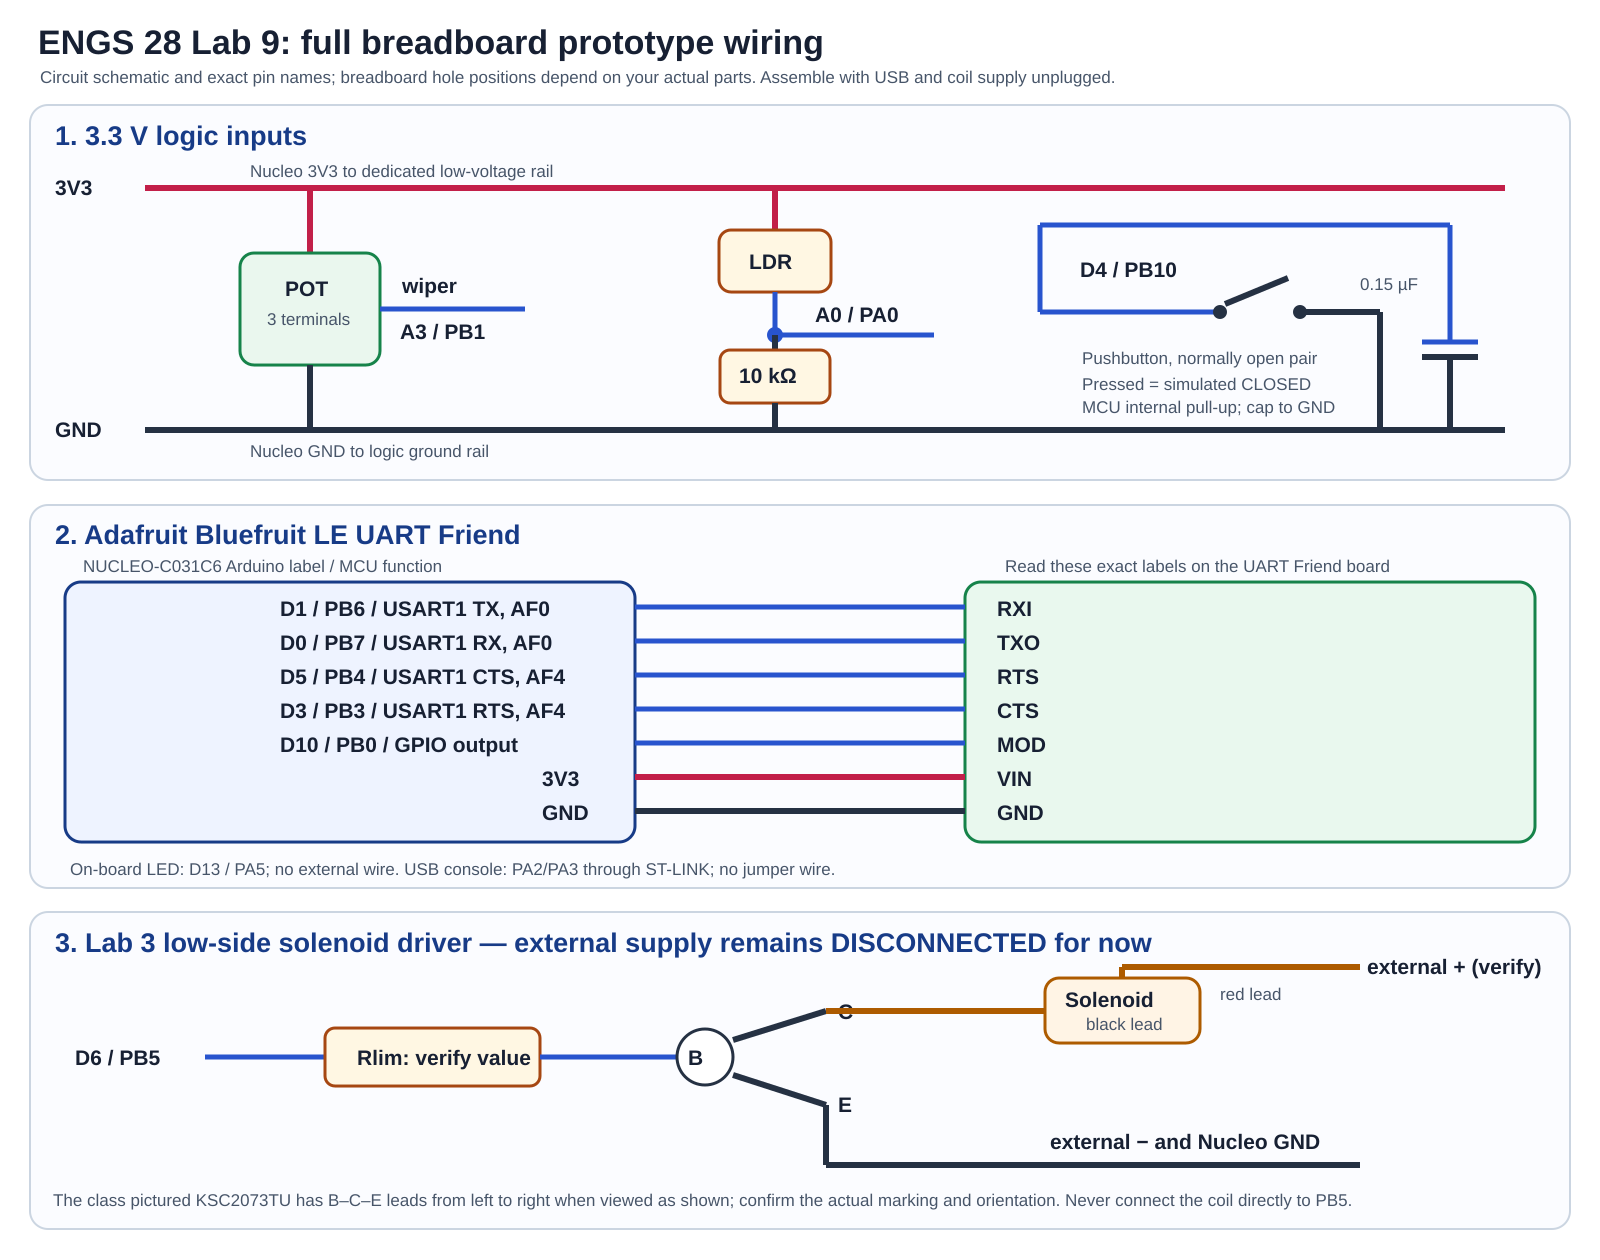
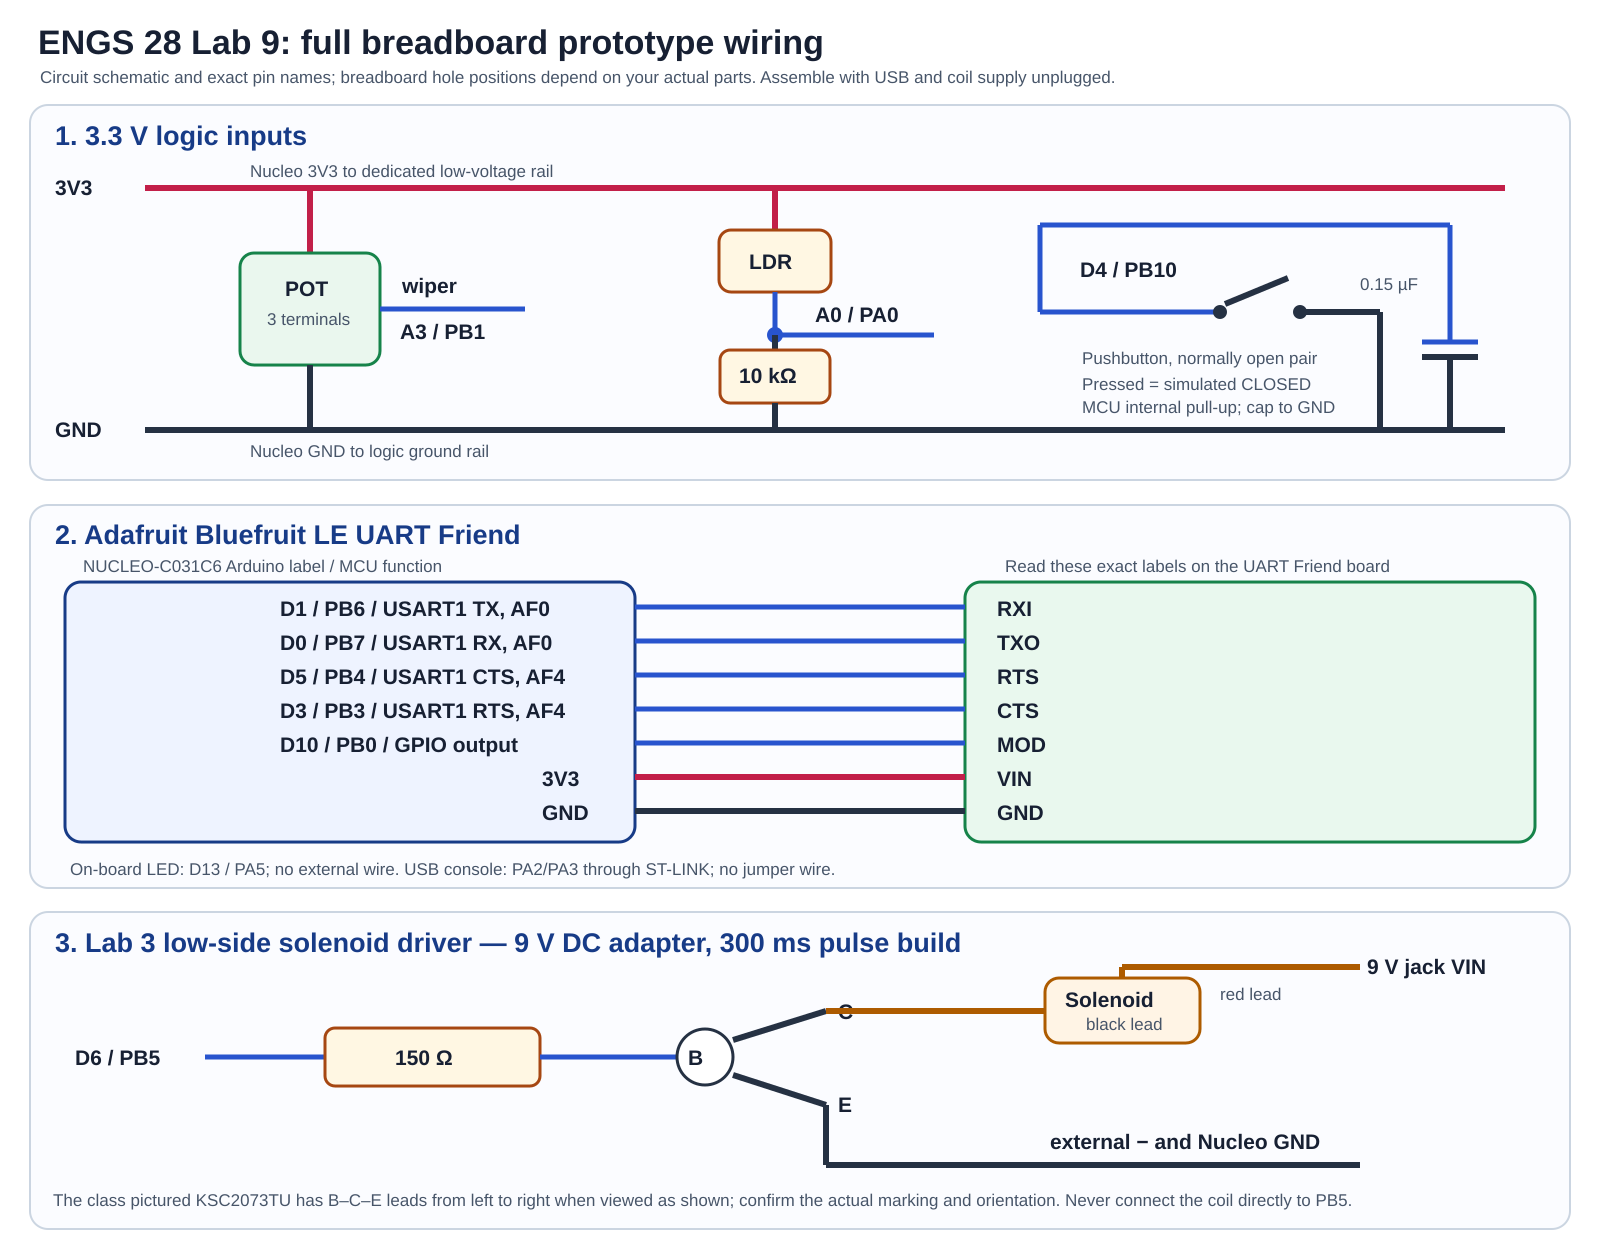
Prepare Lab 9 prototype for GitHub collaboration

Changed region(s): [[0.3125, 0.7429, 0.7188, 0.7738], [0.8438, 0.7429, 0.9688, 0.7738], [0.2188, 0.8357, 0.3438, 0.8667]]

diff --git a/README.md b/README.md
@@ -1,18 +1,27 @@
 # ENGS 28 Lab 9 breadboard prototype
 
-Target: NUCLEO-C031C6 with Adafruit Bluefruit LE UART Friend. This is a separate project copy; Lab 8 is untouched. The default build keeps PB5 solenoid drive **off** and shows an allowed unlock request on the on-board LED for 1 second. The breadboard prototype was tested on the connected Nucleo on 2026-11-12 with a separate 300 ms coil build.
+Target: NUCLEO-C031C6 with an Adafruit Bluefruit LE UART Friend. The default build keeps PB5 solenoid drive **off** and shows an accepted unlock request on the on-board LED for 1 second. `make coil` builds the 300 ms solenoid-pulse version used in the breadboard tests on 2026-11-12. This is a breadboard prototype; the pushbutton simulates a closed door.
 
-## Build
+## Build and test
+
+Install GNU Make, an Arm GNU bare-metal toolchain (`arm-none-eabi-gcc`, `arm-none-eabi-size`, and `arm-none-eabi-objcopy`), and a host C compiler for `make test`. The firmware uses the course's 12 MHz STM32C031 clock setup and does not require STM32 HAL.
+
+The Makefile finds the STM32CubeIDE toolchain at the path used for the original bench build. On another computer, put `arm-none-eabi-*` on `PATH` and run `make TOOLCHAIN=`, or set `TOOLCHAIN=/path/to/tools/bin`. The `TOOLCHAIN` setting can also be provided as an environment variable.
 
 ```sh
 make all          # integrated prototype, build/Lab9Prototype.bin
 make coil         # tested 300 ms solenoid pulse, build/coil/Lab9Prototype.bin
 make passthrough  # Day 17 two-way UART exercise, build/Passthrough.bin
-cc -std=c11 -Wall -Wextra -Werror -ISrc Src/SafeLogic.c tests/test_safe_logic.c -o /tmp/lab9_safe_logic_test
-/tmp/lab9_safe_logic_test
+make test         # host-side interlock and pulse logic test
 ```
 
-The Makefile uses the installed STM32CubeIDE GCC 14.3 toolchain and the existing 12 MHz course clock setup. The ST-LINK previously reported a NUCLEO-C031C6, and the board was flashed with a verified 300 ms coil build before the final source refactor. The refactored binaries have been built but have not yet been flashed. `make all` remains the coil-disabled test build.
+To flash a binary, connect the Nucleo's ST-LINK USB port and use STM32CubeProgrammer. For example, with its CLI on `PATH`:
+
+```sh
+STM32_Programmer_CLI -c port=SWD -w build/Lab9Prototype.bin 0x08000000 -v -rst
+```
+
+Use `build/coil/Lab9Prototype.bin` in that command only for the wired, externally powered solenoid setup. The default image is useful for testing the button, sensors, UARTs, BLE, and LD4 while the solenoid drive stays off. The refactored binaries build successfully but have not yet been flashed; the [bench log](prototype_progress.md) records the earlier hardware test.
 
 ## Pins and behavior
 
@@ -32,11 +41,11 @@ Share the [group I/O pinout](docs/group_pinout.md) for the final-project check-i
 | Bluefruit MOD | D10 | PB0 | Output; HIGH command, LOW data |
 | USB console | built in | PA2 / PA3 | USART2 at 9600 baud |
 
-The button is an active-low **pushbutton**, per the student's latest choice. Lab 3 specifies a debouncing capacitor; use the course's nonpolarized 0.15 µF capacitor **between PB10/D4 and GND, in parallel with the button**, as shown on the [complete diagram](docs/full_breadboard_wiring.png). The firmware also debounces the input in software. On a four-leg tactile button, some legs are internally joined; use continuity mode to select a pair that is open when released and closed when pressed. Never put the button directly across 3V3 and GND.
+The button is an active-low **pushbutton**. Lab 3 specifies a debouncing capacitor; use the course's nonpolarized 0.15 µF capacitor **between PB10/D4 and GND, in parallel with the button**, as shown on the [complete diagram](docs/full_breadboard_wiring.png). The firmware also debounces the input in software. On a four-leg tactile button, some legs are internally joined; use continuity mode to select a pair that is open when released and closed when pressed. Never put the button directly across 3V3 and GND.
 
 The pot must first enter its low region (ADC 0–1228) to arm one local request. Moving it high (2867–4095) while the button is pressed triggers one request. Holding high does not repeat. The button is debounced for 25 ms. Releasing it cancels an active request. The raw light value is for observation only. `U` requests, `L` cancels, `?` sends status. The phone receives a line every second: `POT`, `DOOR`, `LIGHT`, `SOLENOID`. `SOLENOID=DISABLED` means PB5 is still forced low. The advertised name is `ENGS28-Safe-Kensa` if the startup AT sequence succeeds. The USB console also prints status once per second when no pulse is active.
 
-The pushbutton simulates door position, while the solenoid retracts a latch. The student confirmed the Lab 3 9 V DC adapter and driver wiring: barrel board `VIN` to solenoid red, solenoid black to KSC2073 collector, emitter to shared GND, and D6/PB5 through 150 Ω to the base. The barrel board's `5V` pin is unused for the solenoid. A 300 ms pulse moved the latch in the powered bench tests; `make coil` reproduces that build. The coil's current and long-term duty rating have not been measured. Unplug the 9 V adapter when not actively demonstrating the prototype. The LED is useful feedback; the Lab 9 handout does not establish that it qualifies as the required second actuator for the final graded project.
+The pushbutton simulates door position, while the solenoid retracts a latch. The tested Lab 3 driver wiring used a 9 V DC adapter: barrel board `VIN` to solenoid red, solenoid black to KSC2073 collector, emitter to shared GND, and D6/PB5 through 150 Ω to the base. The barrel board's `5V` pin is unused for the solenoid. A 300 ms pulse moved the latch in the powered bench tests; `make coil` reproduces that build. The coil's current and long-term duty rating have not been measured. Unplug the 9 V adapter when not actively demonstrating the prototype. The LED is useful feedback; the Lab 9 handout does not establish that it qualifies as the required second actuator for the final graded project.
 
 ## Source map
 
@@ -50,7 +59,9 @@ The pushbutton simulates door position, while the solenoid retracts a latch. The
 | `Src/Passthrough.c` | Day 17 passthrough exercise adapted for nonblocking USART1 transmit |
 | `Library/ble.c` | Lab 9 section 4.4 startup sequence; bounded command waits and nonblocking data queue |
 
-Class archive: `/home/kensa/Downloads/courseinfo/ENGS28_course_archive`. The source review checked its supplied `uart.c`, `button.c`, `ADCPot.c`, Day 17 BLE slides, and Lab 9 handout. The archive has no supplied USART1 driver, BLE startup function, or two-channel ADC library; the Day 17 slides and Lab 9 handout direct students to write the USART1 and BLE parts. Lab 9 and Day 17 PDFs are also in the handoff ZIP. The Bluefruit [manufacturer pinout](https://learn.adafruit.com/introducing-the-adafruit-bluefruit-le-uart-friend/pinouts) confirms crossed RTS/CTS and MOD level; its [GAP command documentation](https://learn.adafruit.com/introducing-the-adafruit-bluefruit-le-uart-friend/ble-gap) confirms the name syntax and reset.
+The course source review checked the supplied `uart.c`, `button.c`, `ADCPot.c`, Day 17 BLE slides, and Lab 9 handout. The handouts and slides are not bundled here. They contain no supplied USART1 driver, BLE startup function, or two-channel ADC library; the Day 17 slides and Lab 9 handout direct students to write the USART1 and BLE parts. The Bluefruit [manufacturer pinout](https://learn.adafruit.com/introducing-the-adafruit-bluefruit-le-uart-friend/pinouts) confirms crossed RTS/CTS and MOD level; its [GAP command documentation](https://learn.adafruit.com/introducing-the-adafruit-bluefruit-le-uart-friend/ble-gap) confirms the name syntax and reset.
+
+The `course/chipheaders` support files and ST-generated startup/linker files retain their upstream copyright and license notices. No project-wide license is specified for the class-derived code.
 
 ## Bench verification
 

diff --git a/docs/paper_design_draft.md b/docs/paper_design_draft.md
@@ -1,12 +1,12 @@
 # Lab 9 paper design draft
 
-This is the breadboard design prepared from the course Lab 9 handout. Final transistor wiring and pulse duration require inspection of the actual parts. The final project also needs an instructor-approved second actuator.
+This design began with the course Lab 9 handout and was then used for the 2026-11-12 breadboard test. The 9 V adapter, 150 Ω base resistor, and 300 ms pulse moved the latch during that test. Coil current and long-term duty rating remain unmeasured. The final graded project still needs an instructor-approved second actuator.
 
 ## Schematics
 
 - [Illustrated breadboard layout](breadboard_layout.png) and [complete breadboard circuit](full_breadboard_wiring.png), including the Lab 2/Lab 3 nonpolarized 0.15 µF capacitor across the door-position pushbutton: PB10/D4 to GND when pressed.
 - [Bluefruit UART, flow control, MOD, and power](ble_wiring.png).
-- [Original Lab 3 KSC2073 solenoid driver](lab3_driver.png). The coil's external positive rail is separate from 3V3; its actual supply, resistor, part polarity, and pulse limit remain unverified. Do not energize it from this drawing alone.
+- [Original Lab 3 KSC2073 solenoid driver](lab3_driver.png). The current breadboard connections are in the [complete circuit](full_breadboard_wiring.png): 9 V DC adapter and 150 Ω base resistor, with the external positive rail separate from 3V3. Confirm the actual transistor marking and lead orientation before powering the driver.
 
 ## USART1 alternate functions
 
@@ -37,4 +37,4 @@ Repeat:
       Send one queued BLE character when USART1 can accept it.
 ```
 
-The default firmware uses an LED-only request indication and holds PB5 low. A real solenoid pulse is a later hardware-verified build setting. The pushbutton only simulates a closed door; no latch position is sensed.
+The default firmware uses an LED-only request indication and holds PB5 low. `make coil` enables the 300 ms pulse used in the earlier breadboard test. The pushbutton only simulates a closed door; no latch position is sensed.

diff --git a/docs/group_pinout.md b/docs/group_pinout.md
@@ -1,6 +1,6 @@
 # Lab 9 smart-safe breadboard prototype: I/O pinout
 
-Board: **NUCLEO-C031C6**. This is the tested breadboard prototype, with a hand-pressed pushbutton standing in for a future door-position switch. The solenoid retracts the latch; the button does not sense latch position. The Nucleo is currently flashed with the 300 ms solenoid-pulse build (`make coil`).
+Board: **NUCLEO-C031C6**. This is the tested breadboard prototype, with a hand-pressed pushbutton standing in for a future door-position switch. The solenoid retracts the latch; the button does not sense latch position. The 2026-11-12 hardware tests used a 300 ms solenoid-pulse build (`make coil`); the later source refactor has not yet been flashed.
 
 ## Pins already assigned
 
@@ -32,6 +32,6 @@ Directions below are from the **Nucleo's** point of view. `D*` and `A*` are the 
 - The pot must first read low (ADC **0–1228**) to arm. While the button is held, moving it high (ADC **2867–4095**) requests one pulse. Holding it high does not repeat the request.
 - Bluefruit uses USART1 at **9600 baud** with RTS/CTS flow control. The USB console uses USART2 at **9600 baud**. Both UARTs are polled in the main loop. Wireless or USB `U` requests a pulse while the button is held; `L` cancels; `?` requests status.
 - A **1 ms SysTick interrupt** supplies timing. Status (`POT`, `DOOR`, `LIGHT`, `SOLENOID`) is sent over BLE every **1 second**. No ADC, button, or UART interrupt is used in this version.
-- `make all` builds a coil-disabled version for logic testing. `make coil` builds the tested **300 ms** pulse version currently on the Nucleo.
+- `make all` builds a coil-disabled version for logic testing. `make coil` builds the **300 ms** pulse version used in the earlier hardware test.
 
 Source: [`Src/Lab9Prototype.c`](../Src/Lab9Prototype.c), [`Src/SafeLogic.c`](../Src/SafeLogic.c), [`Library/uart1.c`](../Library/uart1.c), and the [bench test record](../prototype_progress.md).

diff --git a/prototype_progress.md b/prototype_progress.md
@@ -2,8 +2,8 @@
 
 - Board: ST-LINK identified NUCLEO-C031C6 / STM32C03x, 32 KB flash, 3.24 V target voltage. The ST-LINK USB virtual COM port was available during the test.
 - Source and build: `make -B all passthrough`, `make coil`, and the host `SafeLogic` test passed. The default `make all` binary leaves PB5 low. `make coil` builds a separate 300 ms pulse binary.
[1 lines of base64/hex data omitted]
-- Previous board flash: backed up before programming to `/home/kensa/Documents/ES28F26/board_backups/NUCLEO-C031C6-before-Lab9-2026-11-12.bin` outside the Git repository.
[1 lines of base64/hex data omitted]
+- Previous board flash: backed up before programming; the backup is outside this Git repository.
 - Pushbutton: live USB status changed `NOT_CLOSED → CLOSED → NOT_CLOSED` during a hand press and release. The 0.15 µF capacitor's individual value was not measured.
 - Potentiometer: live ADC readings covered the full `0–4095` range. The student observed one solenoid actuation when moving low to high while holding the button.
 - LDR: covering it changed the ADC reading from about `2850` to `1280`; uncovering restored the higher reading.
